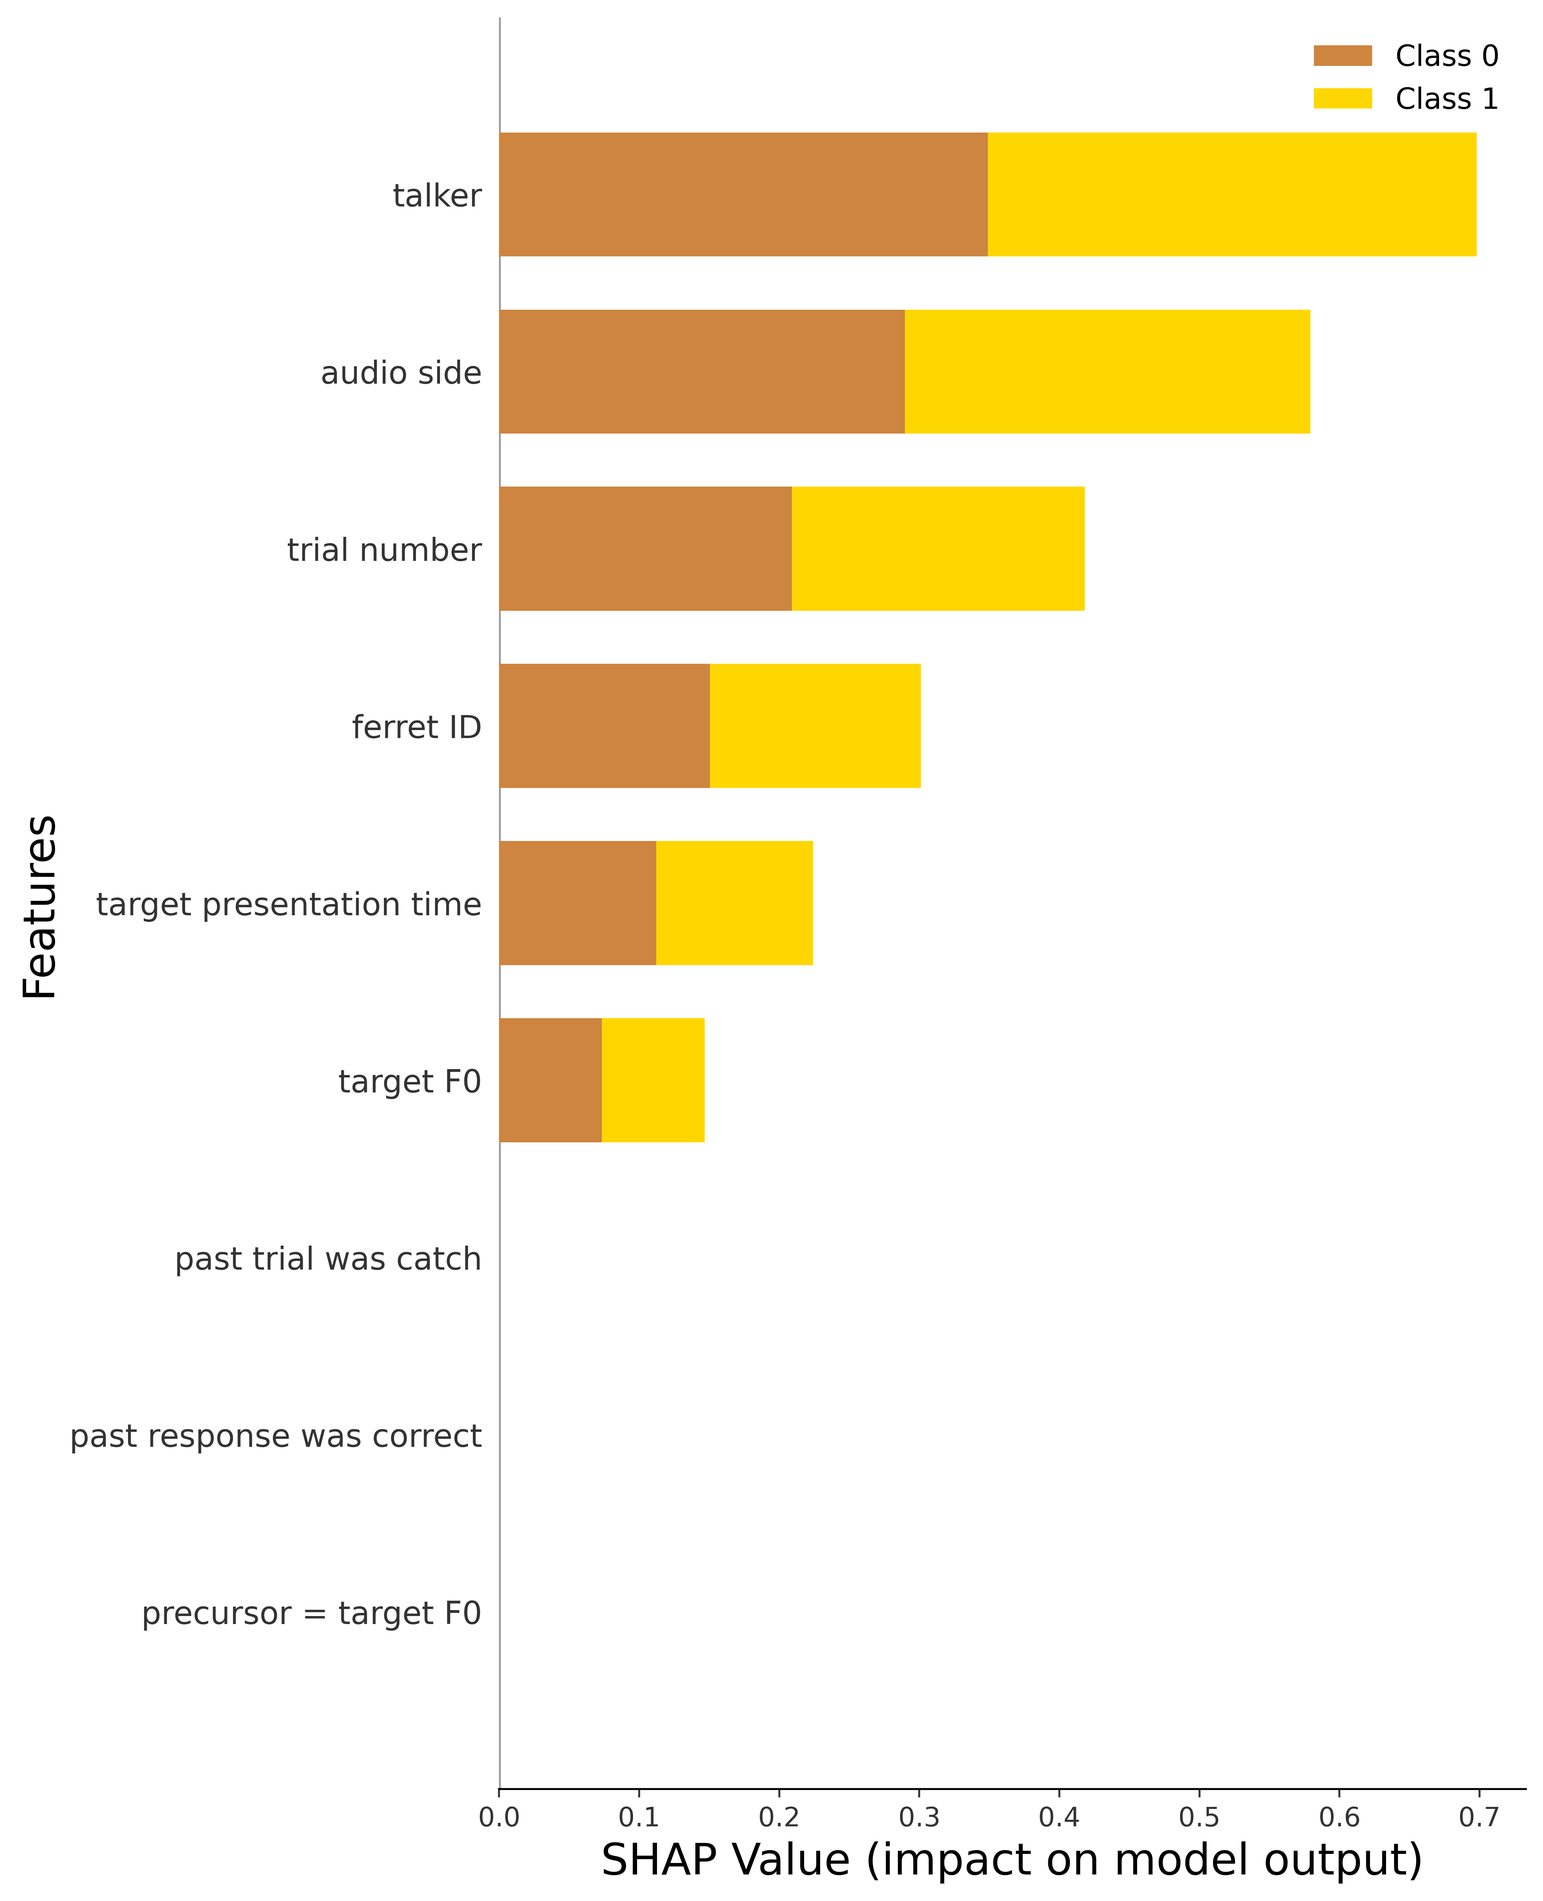
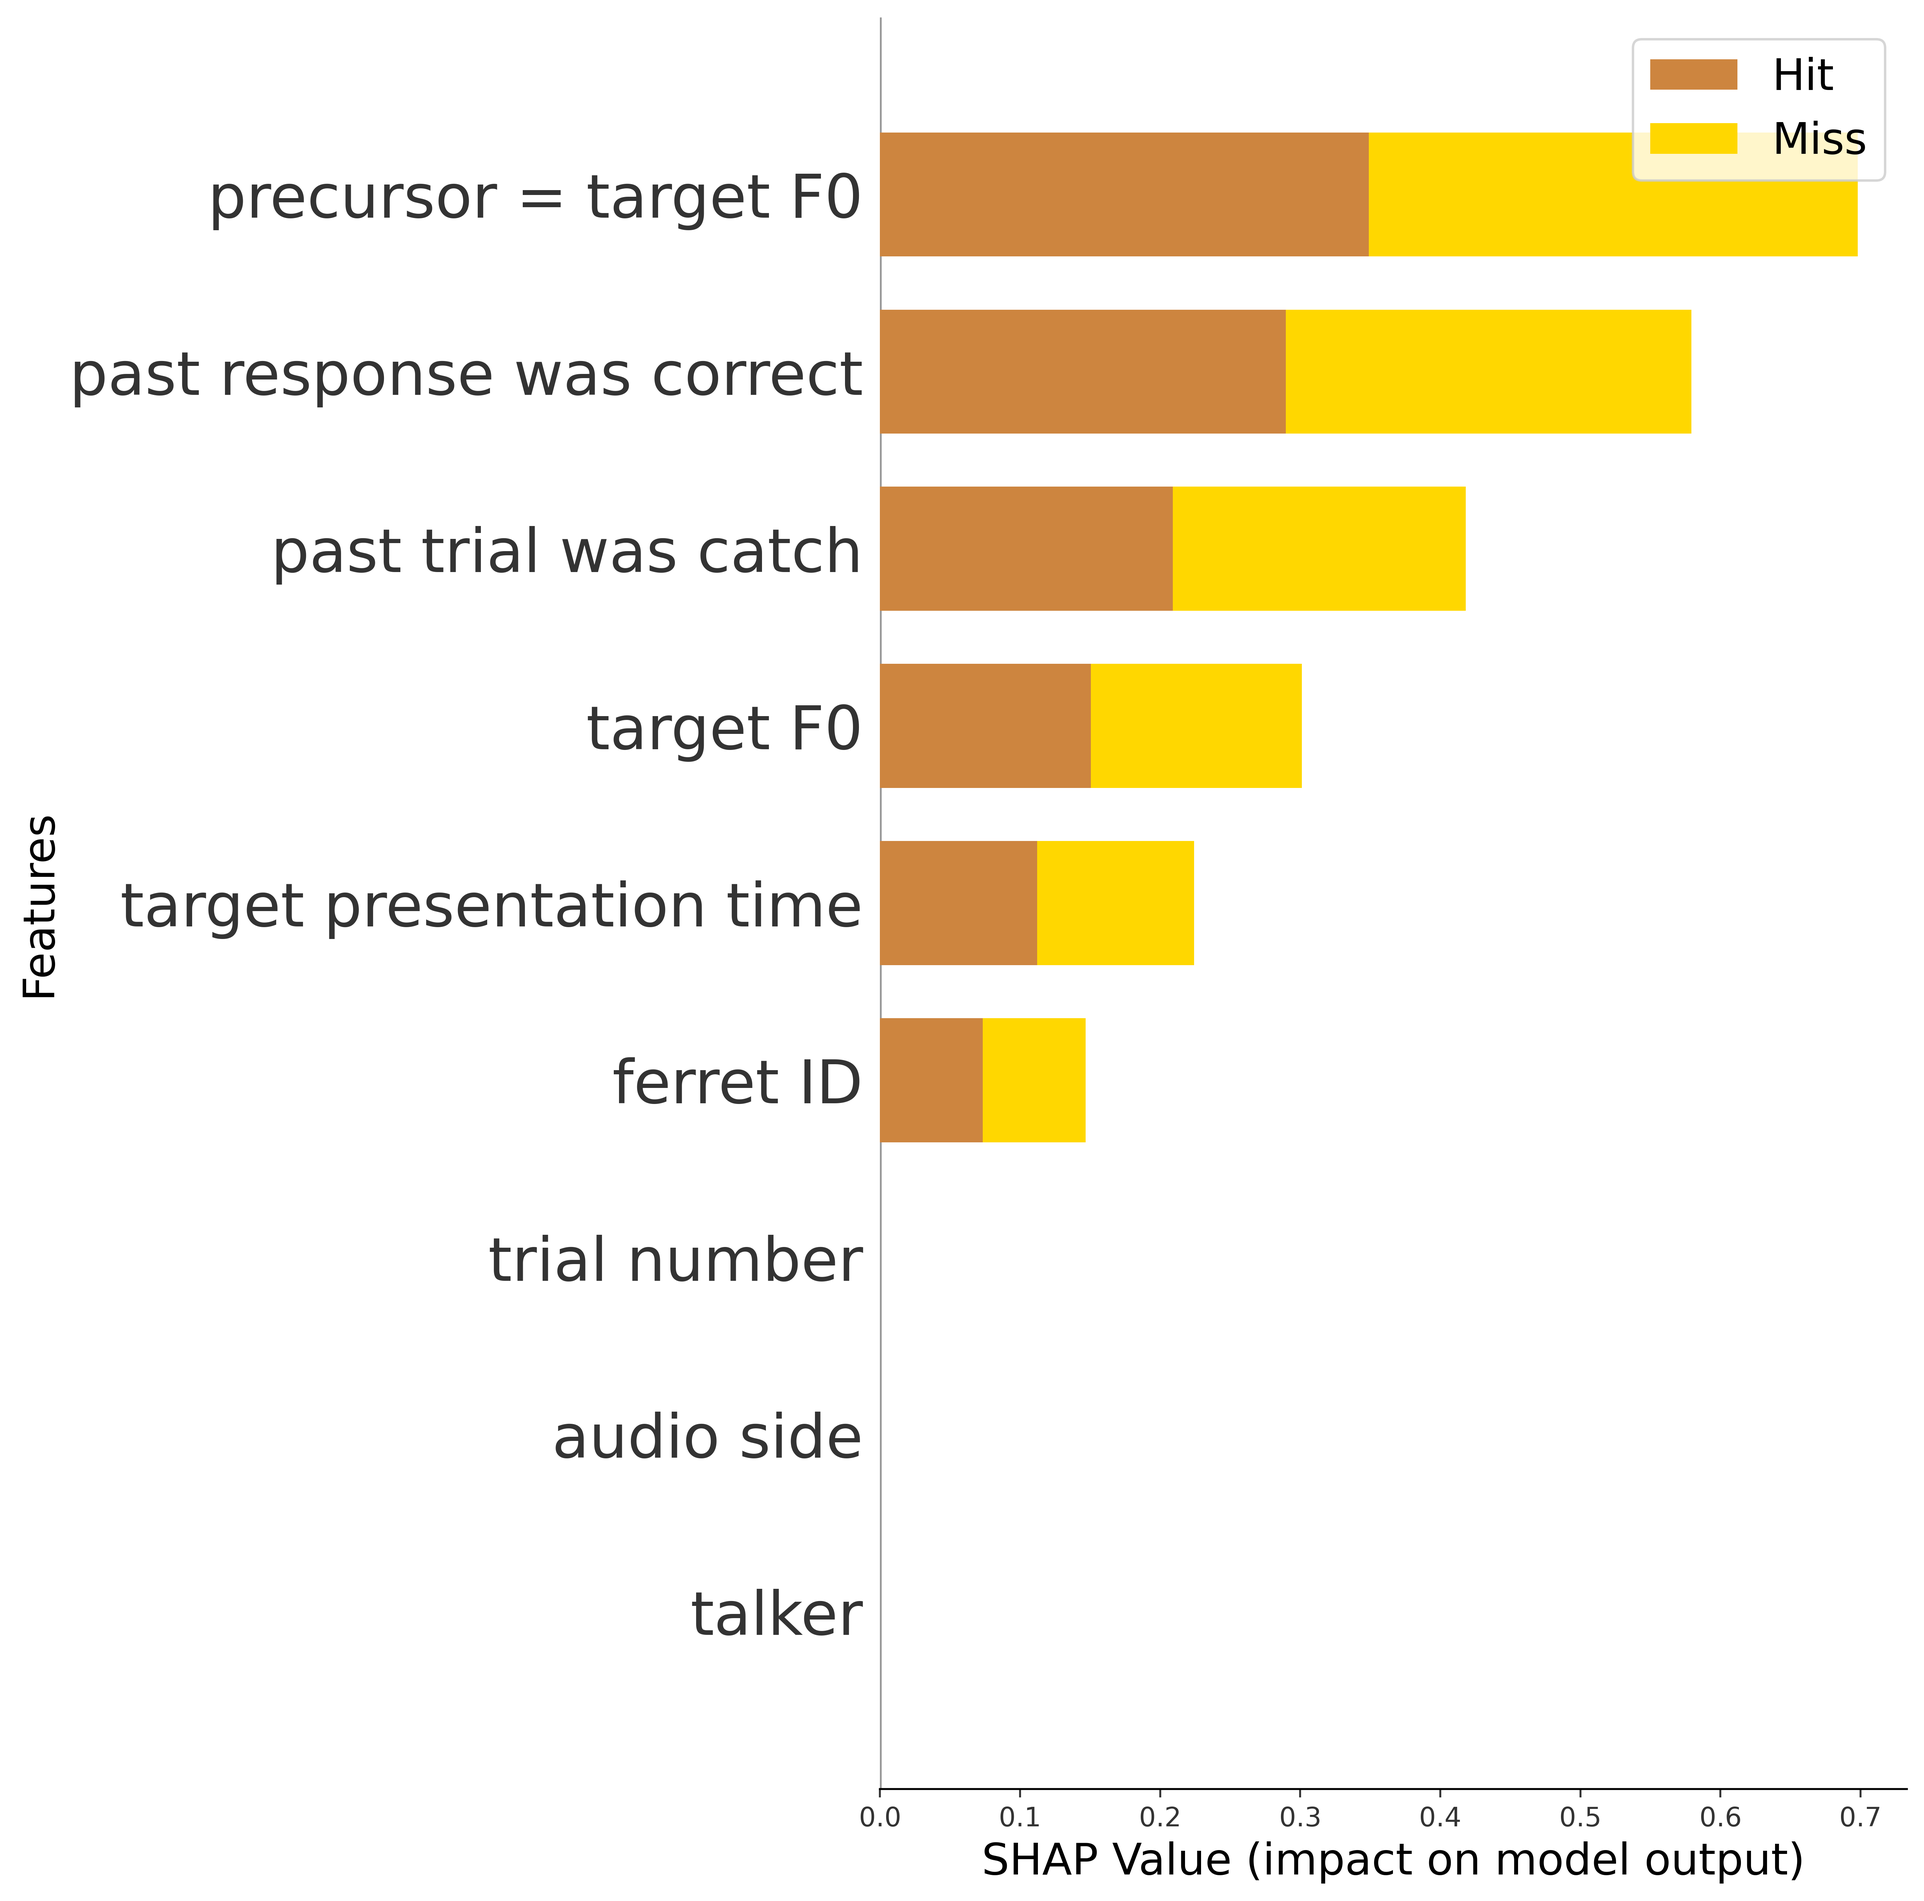
increasing font size of legend in swarm plot

diff --git a/models/correctrespmissmodel.py b/models/correctrespmissmodel.py
@@ -240,14 +240,21 @@ def runlgbcorrectrespornotwithoptuna(dataframe, paramsinput=None, optimization =
     fig.set_size_inches(9, 12)
     ax.set_xlabel('SHAP Value (impact on model output)', fontsize=18)
     ax.set_yticks(range(len(feature_labels)))
-    ax.set_yticklabels(feature_labels, fontsize=18)
+    ax.set_yticklabels(feature_labels, fontsize=25)
     ax.set_ylabel('Features', fontsize=18)
+    #pull legend from figure
+    # Pull legend from figure
+    legend_handles, legend_labels = ax.get_legend_handles_labels()
+    #reinsert the legend_hanldes and labels
+    ax.legend(legend_handles, ['Hit', 'Miss'], loc='upper right', fontsize=18)
 
-    #make the y labels smaller
 
-    plt.savefig(summary_plot_file, dpi = 500, bbox_inches='tight')
+    plt.savefig(summary_plot_file, dpi=500, bbox_inches='tight')
 
     plt.show()
+    #make the y labels smaller
+
+
     fig, ax = plt.subplots()
     shap.plots.scatter(shap_values2[:, "talker"], color=shap_values2[:, "target F0"], cmap=cmapcustom, show=False)
     plt.xticks([1,2], labels = ['Male', 'Female'], fontsize=18)

diff --git a/models/runfalsealarmmodel.py b/models/runfalsealarmmodel.py
@@ -391,7 +391,10 @@ def plotfalsealarmmodel(xg_reg, ypred, y_test, results, X_train, y_train, X_test
     print(labels)
     fig.set_size_inches(10, 15)
     ax.set_yticks(range(len(feature_labels)))
-    ax.set_yticklabels(feature_labels, fontsize=18)
+    ax.set_yticklabels(feature_labels, fontsize=25)
+    legend_handles, legend_labels = ax.get_legend_handles_labels()
+    #reinsert the legend_hanldes and labels
+    ax.legend(legend_handles, ['False Alarm', 'Correct Rejection'], loc='upper right', fontsize=18)
 
     # ax.set_yticklabels(labels)
     fig.tight_layout()
